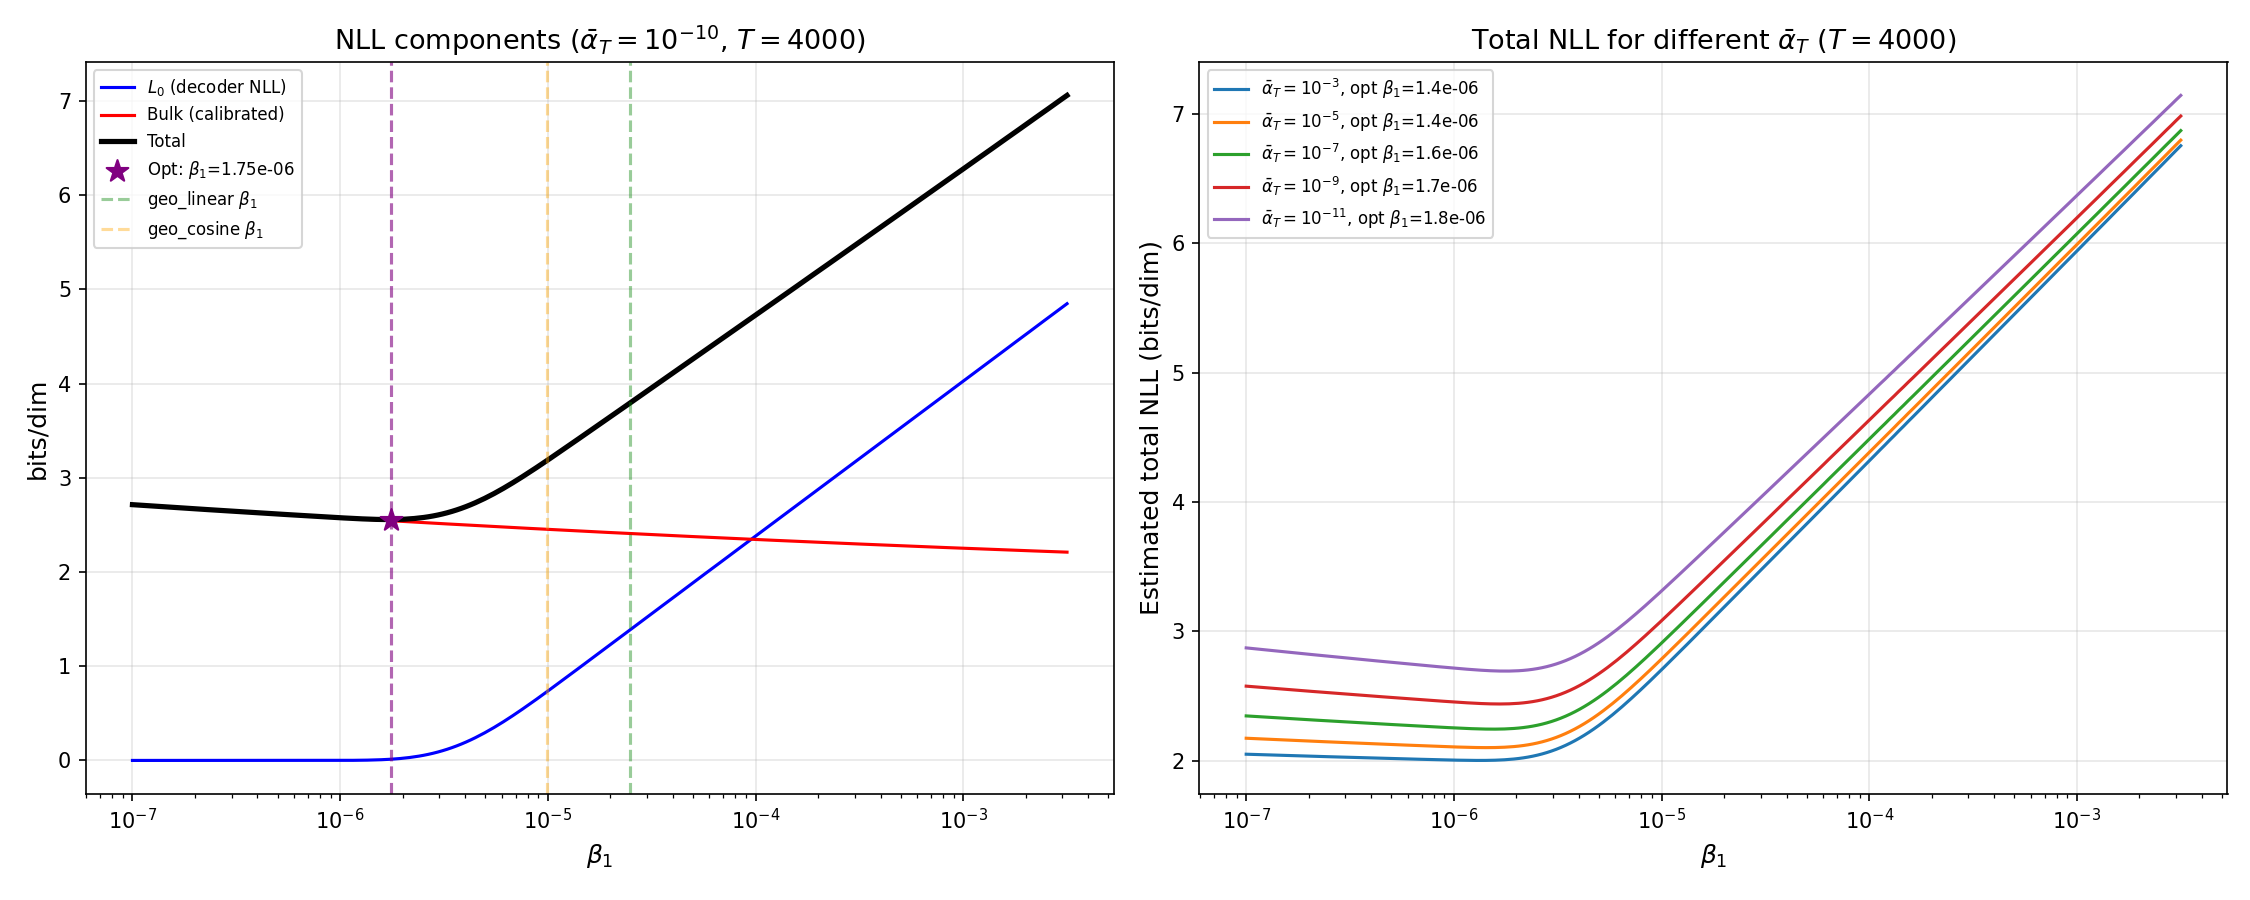
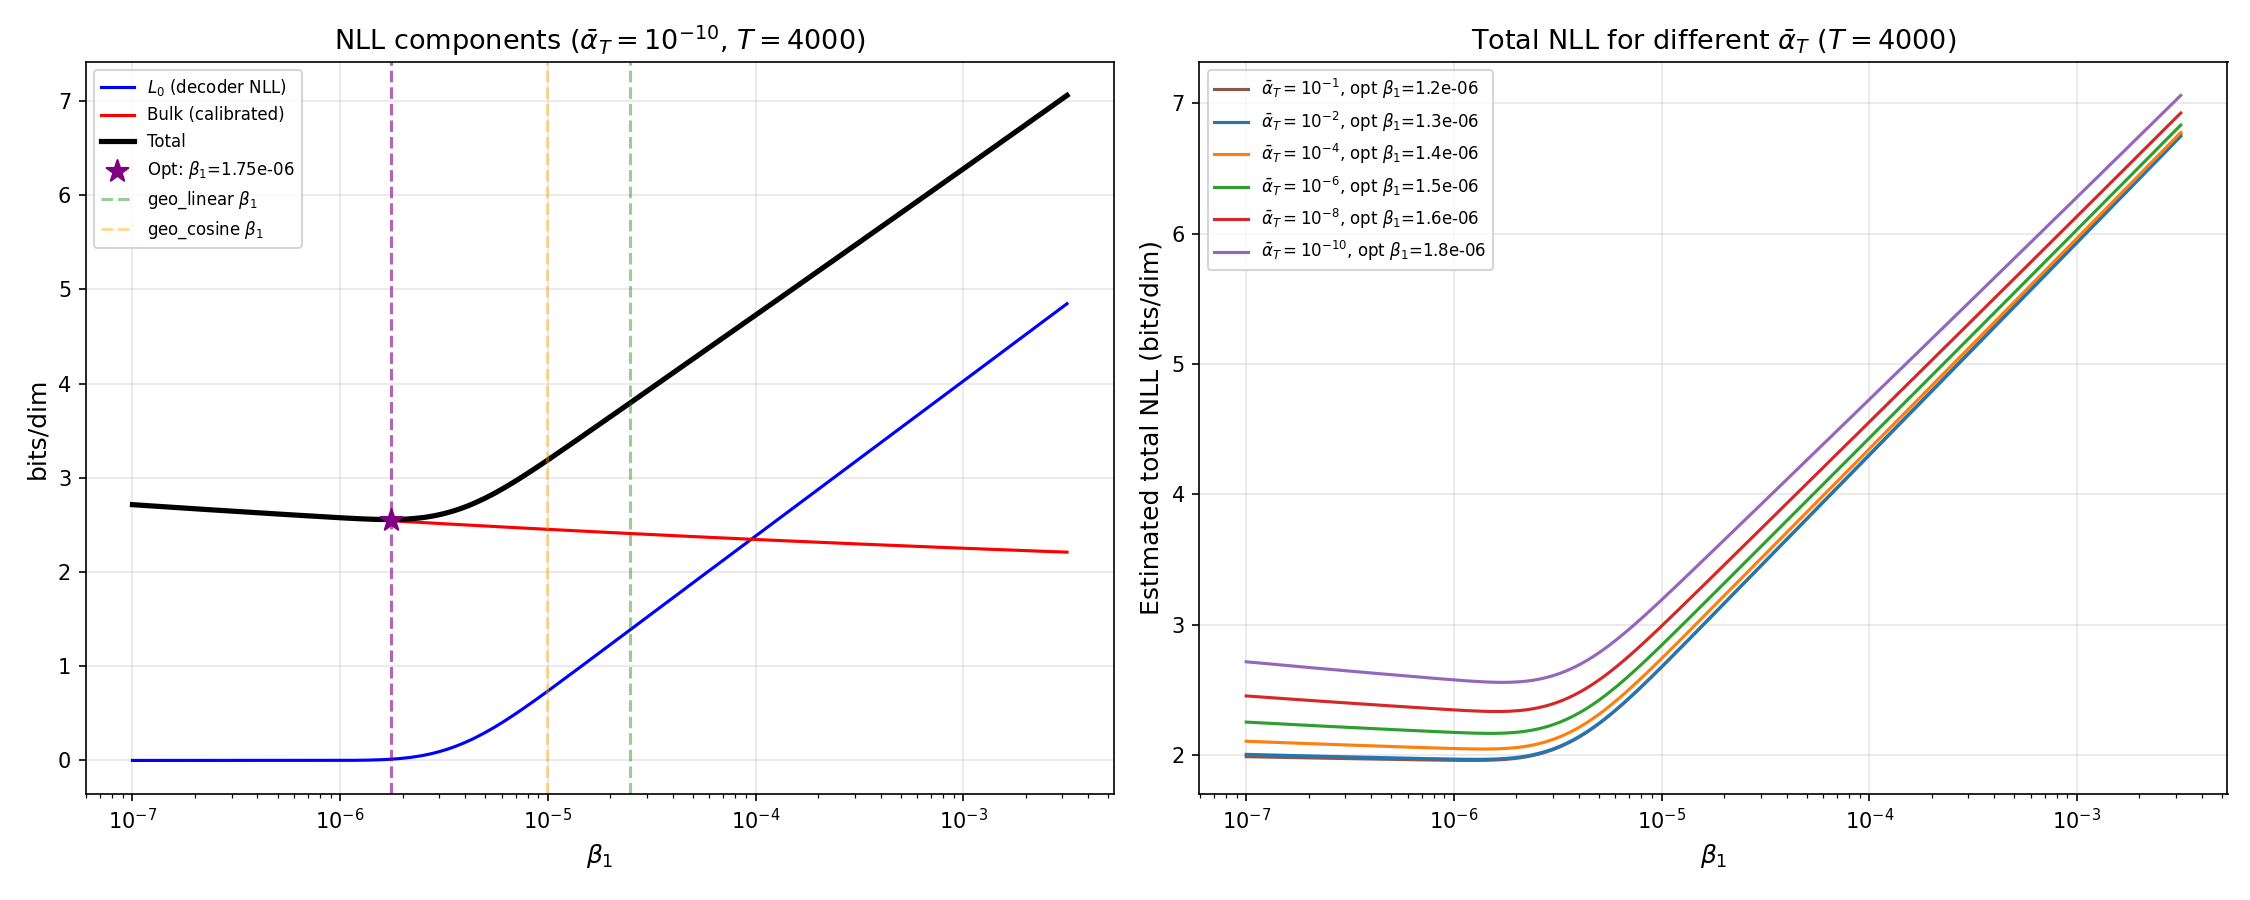
Extend endpoint grid search to alpha_bar_T=0.5 and add optimal schedule plot
Optimum now in interior: beta_1=1.2e-6, alpha_bar_T=0.053. Added alpha_bar_t
comparison plot showing the optimal schedule retains ~5% signal at t=T.

Changed region(s): [[0.56, 0.1244, 0.9956, 0.8711], [0.5289, 0.1867, 0.6533, 0.3111]]

diff --git a/endpoint_grid_search.py b/endpoint_grid_search.py
@@ -241,7 +241,7 @@ def main():
     # ---- 2D grid ----
     print("\nRunning 2D grid...")
     beta1_2d = np.logspace(-7, -2.5, 300)
-    log_aT_2d = np.linspace(-12, -2, 300)
+    log_aT_2d = np.linspace(-12, np.log10(0.5), 300)  # extend up to alpha_bar_T = 0.5
     aT_2d = 10.0 ** log_aT_2d
 
     B1, AT = np.meshgrid(beta1_2d, aT_2d, indexing="ij")
@@ -339,8 +339,8 @@ def main():
     ax.grid(True, alpha=0.3)
 
     ax = axes[1]
-    for log_aT, color in [(-3, "#1f77b4"), (-5, "#ff7f0e"), (-7, "#2ca02c"),
-                            (-9, "#d62728"), (-11, "#9467bd")]:
+    for log_aT, color in [(-1, "#8c564b"), (-2, "#1f77b4"), (-4, "#ff7f0e"),
+                            (-6, "#2ca02c"), (-8, "#d62728"), (-10, "#9467bd")]:
         aT_val = 10.0 ** log_aT
         bk = C0 + C1 * np.array([bulk_sum_psi(b, aT_val, T) for b in beta1_fine])
         pr = prior_kl_bpd(aT_val, E_norm_sq, d)
@@ -409,7 +409,7 @@ def main():
     print(f"{'='*70}")
     print(f"{'log10(aT)':>10} {'opt_beta1':>14} {'opt_r':>12} "
           f"{'L0':>8} {'bulk':>8} {'L_T':>10} {'total':>8}")
-    for log_aT in [-3, -4, -5, -6, -7, -8, -9, -10, -11, -12]:
+    for log_aT in [np.log10(0.5), np.log10(0.3), -1, -2, -3, -4, -5, -6, -8, -10, -12]:
         aT_val = 10.0 ** log_aT
         bk = C0 + C1 * np.array([bulk_sum_psi(b, aT_val, T) for b in beta1_fine])
         pr = prior_kl_bpd(aT_val, E_norm_sq, d)
